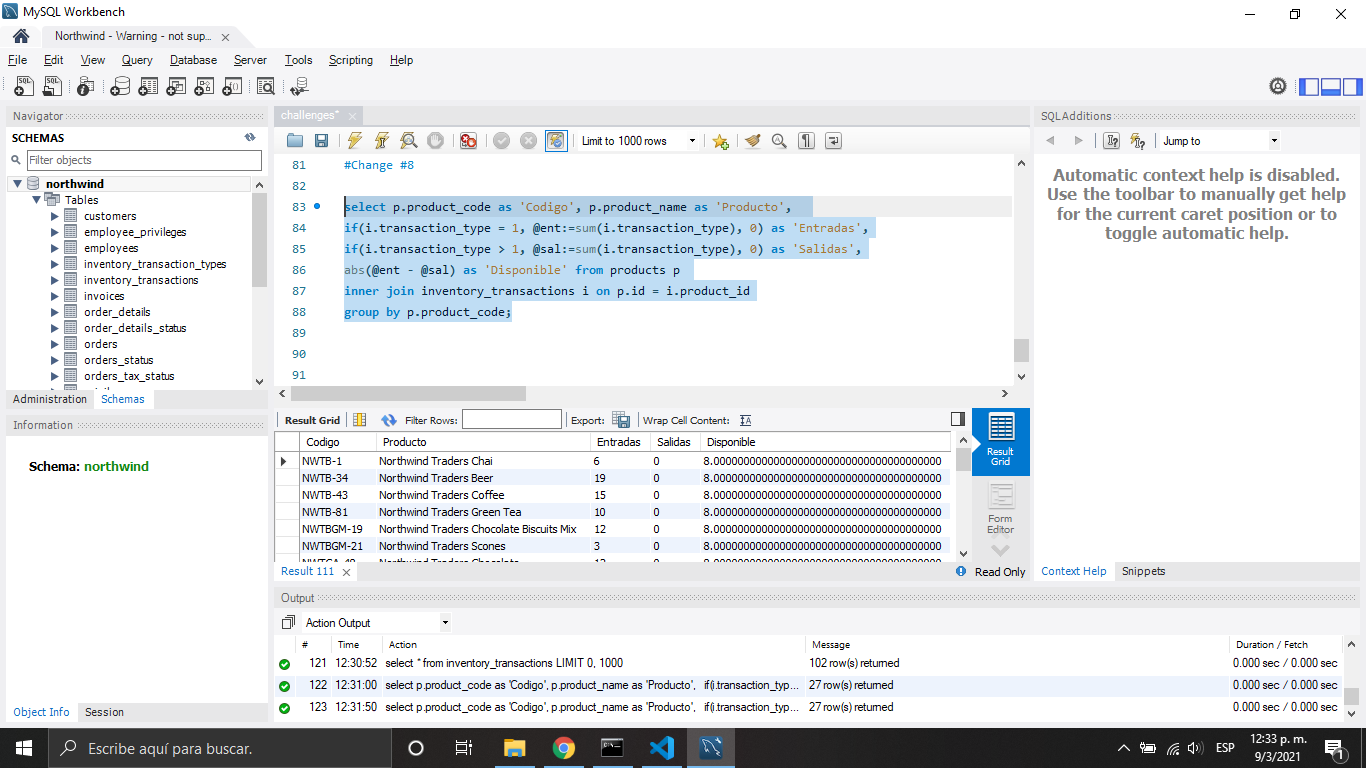
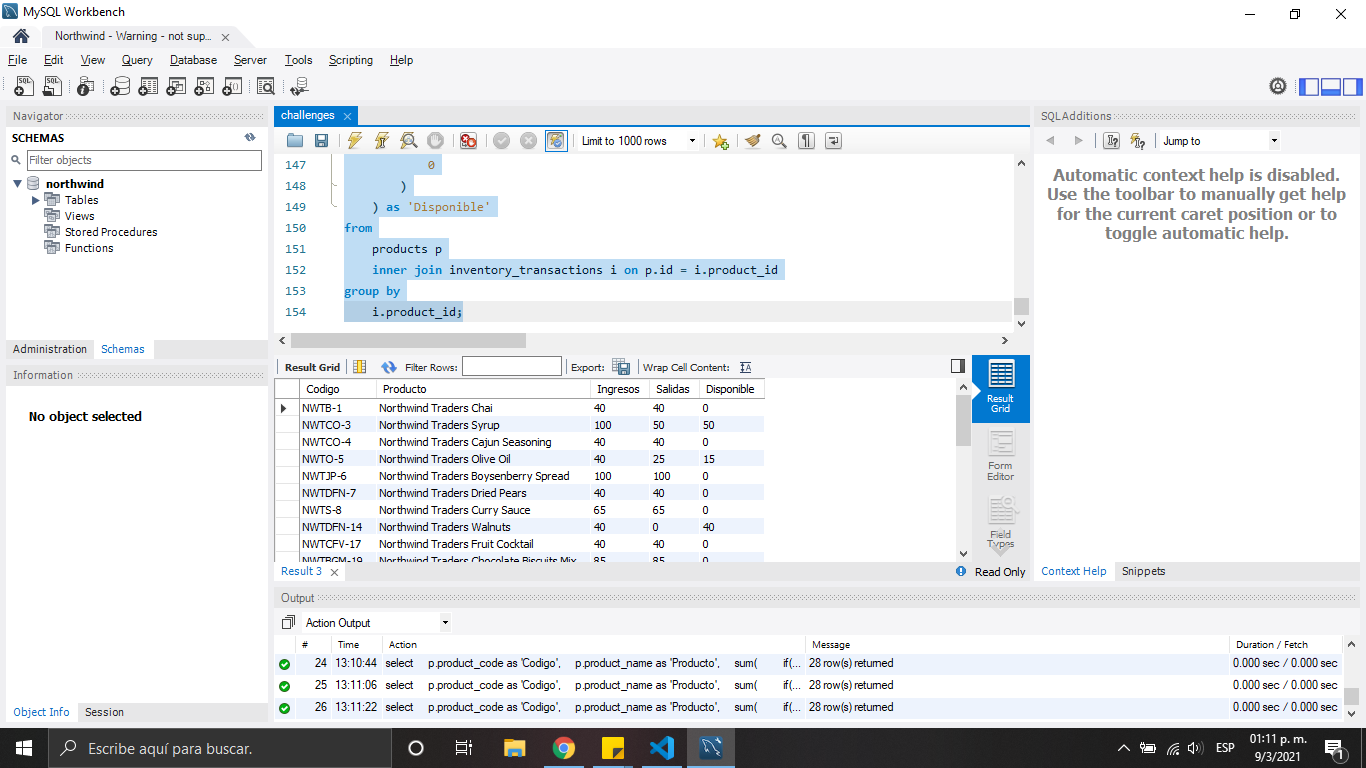
fix challenge 8

diff --git a/workshop06/database.md b/workshop06/database.md
@@ -179,11 +179,40 @@ group by p.product_name, i.transaction_type;
 ![alt](./images/8.png "Challenge #8")
 
 ```bash
-select p.product_code as 'Codigo', p.product_name as 'Producto',
-if(i.transaction_type = 1, @ent:=sum(i.transaction_type), 0) as 'Entradas',
-if(i.transaction_type > 1, @sal:=sum(i.transaction_type), 0) as 'Salidas',
-abs(@ent - @sal) as 'Disponible' from products p
-inner join inventory_transactions i on p.id = i.product_id
-group by p.product_code;
+select
+    p.product_code as 'Codigo',
+    p.product_name as 'Producto',
+    sum(
+        if(
+            i.transaction_type = 1,
+            i.quantity,
+            0
+        )
+    ) as 'Ingresos',
+    sum(
+        if(
+            i.transaction_type > 1,
+            i.quantity,
+            0
+        )
+    ) as 'Salidas',
+    sum(
+        if(
+            i.transaction_type = 1,
+            i.quantity,
+            0
+        )
+    ) - sum(
+        if(
+            i.transaction_type > 1,
+            i.quantity,
+            0
+        )
+    ) as 'Disponible'
+from
+    products p
+    inner join inventory_transactions i on p.id = i.product_id
+group by
+    i.product_id;
 
 ```
